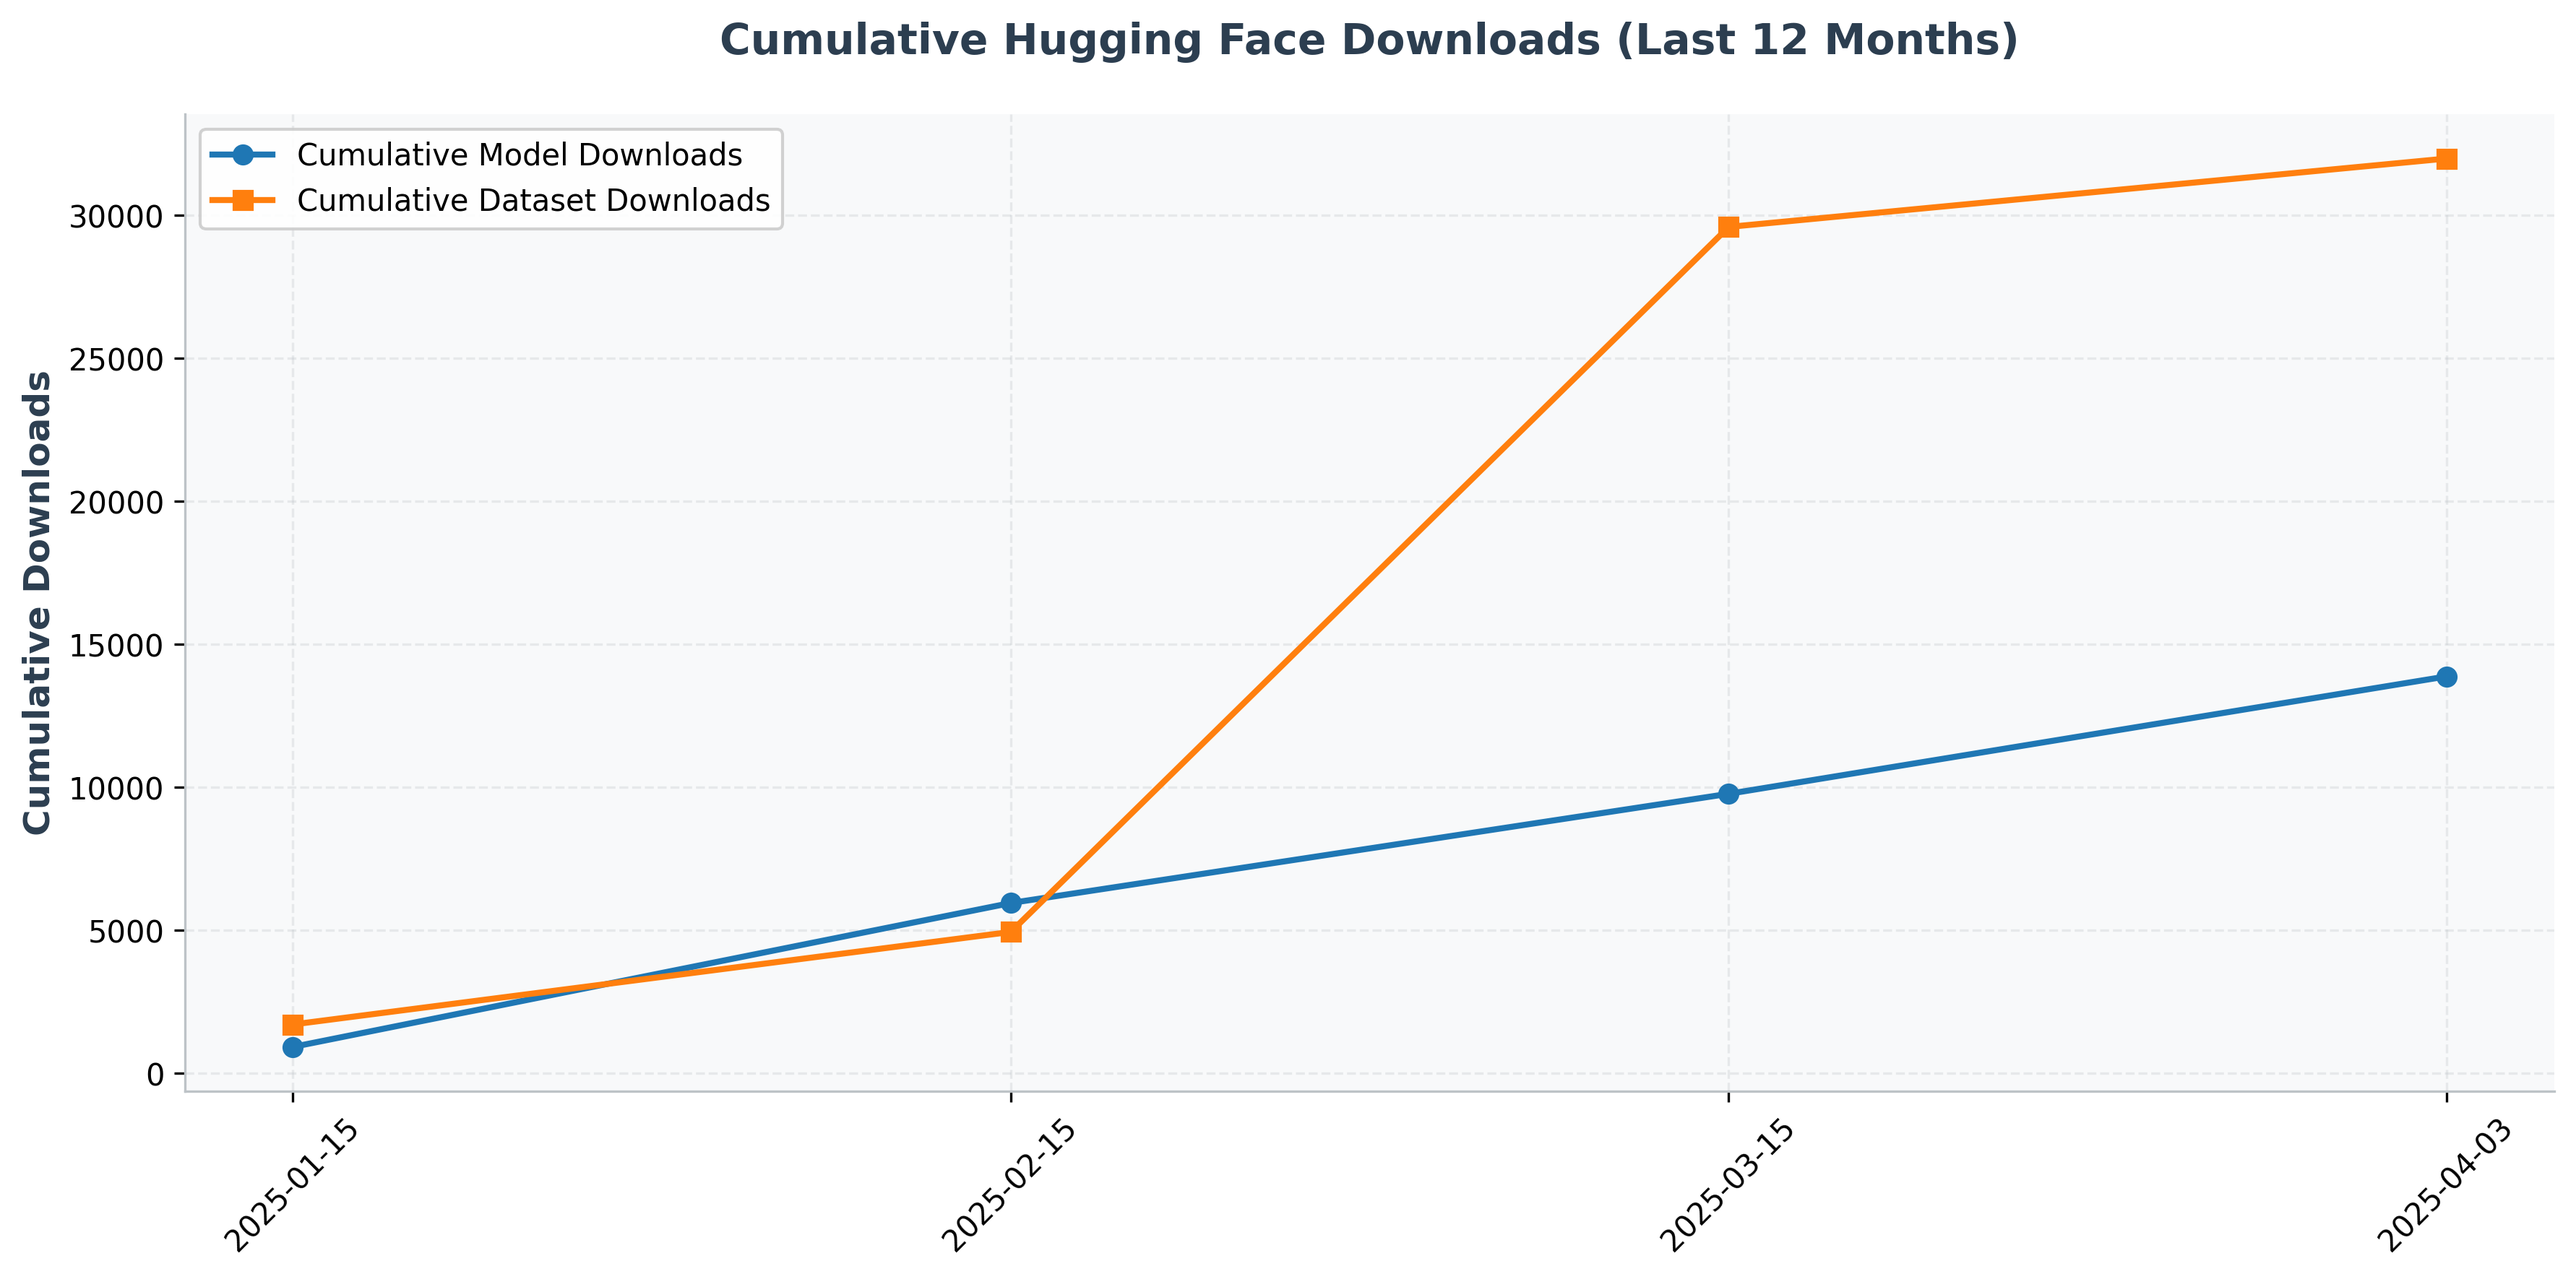
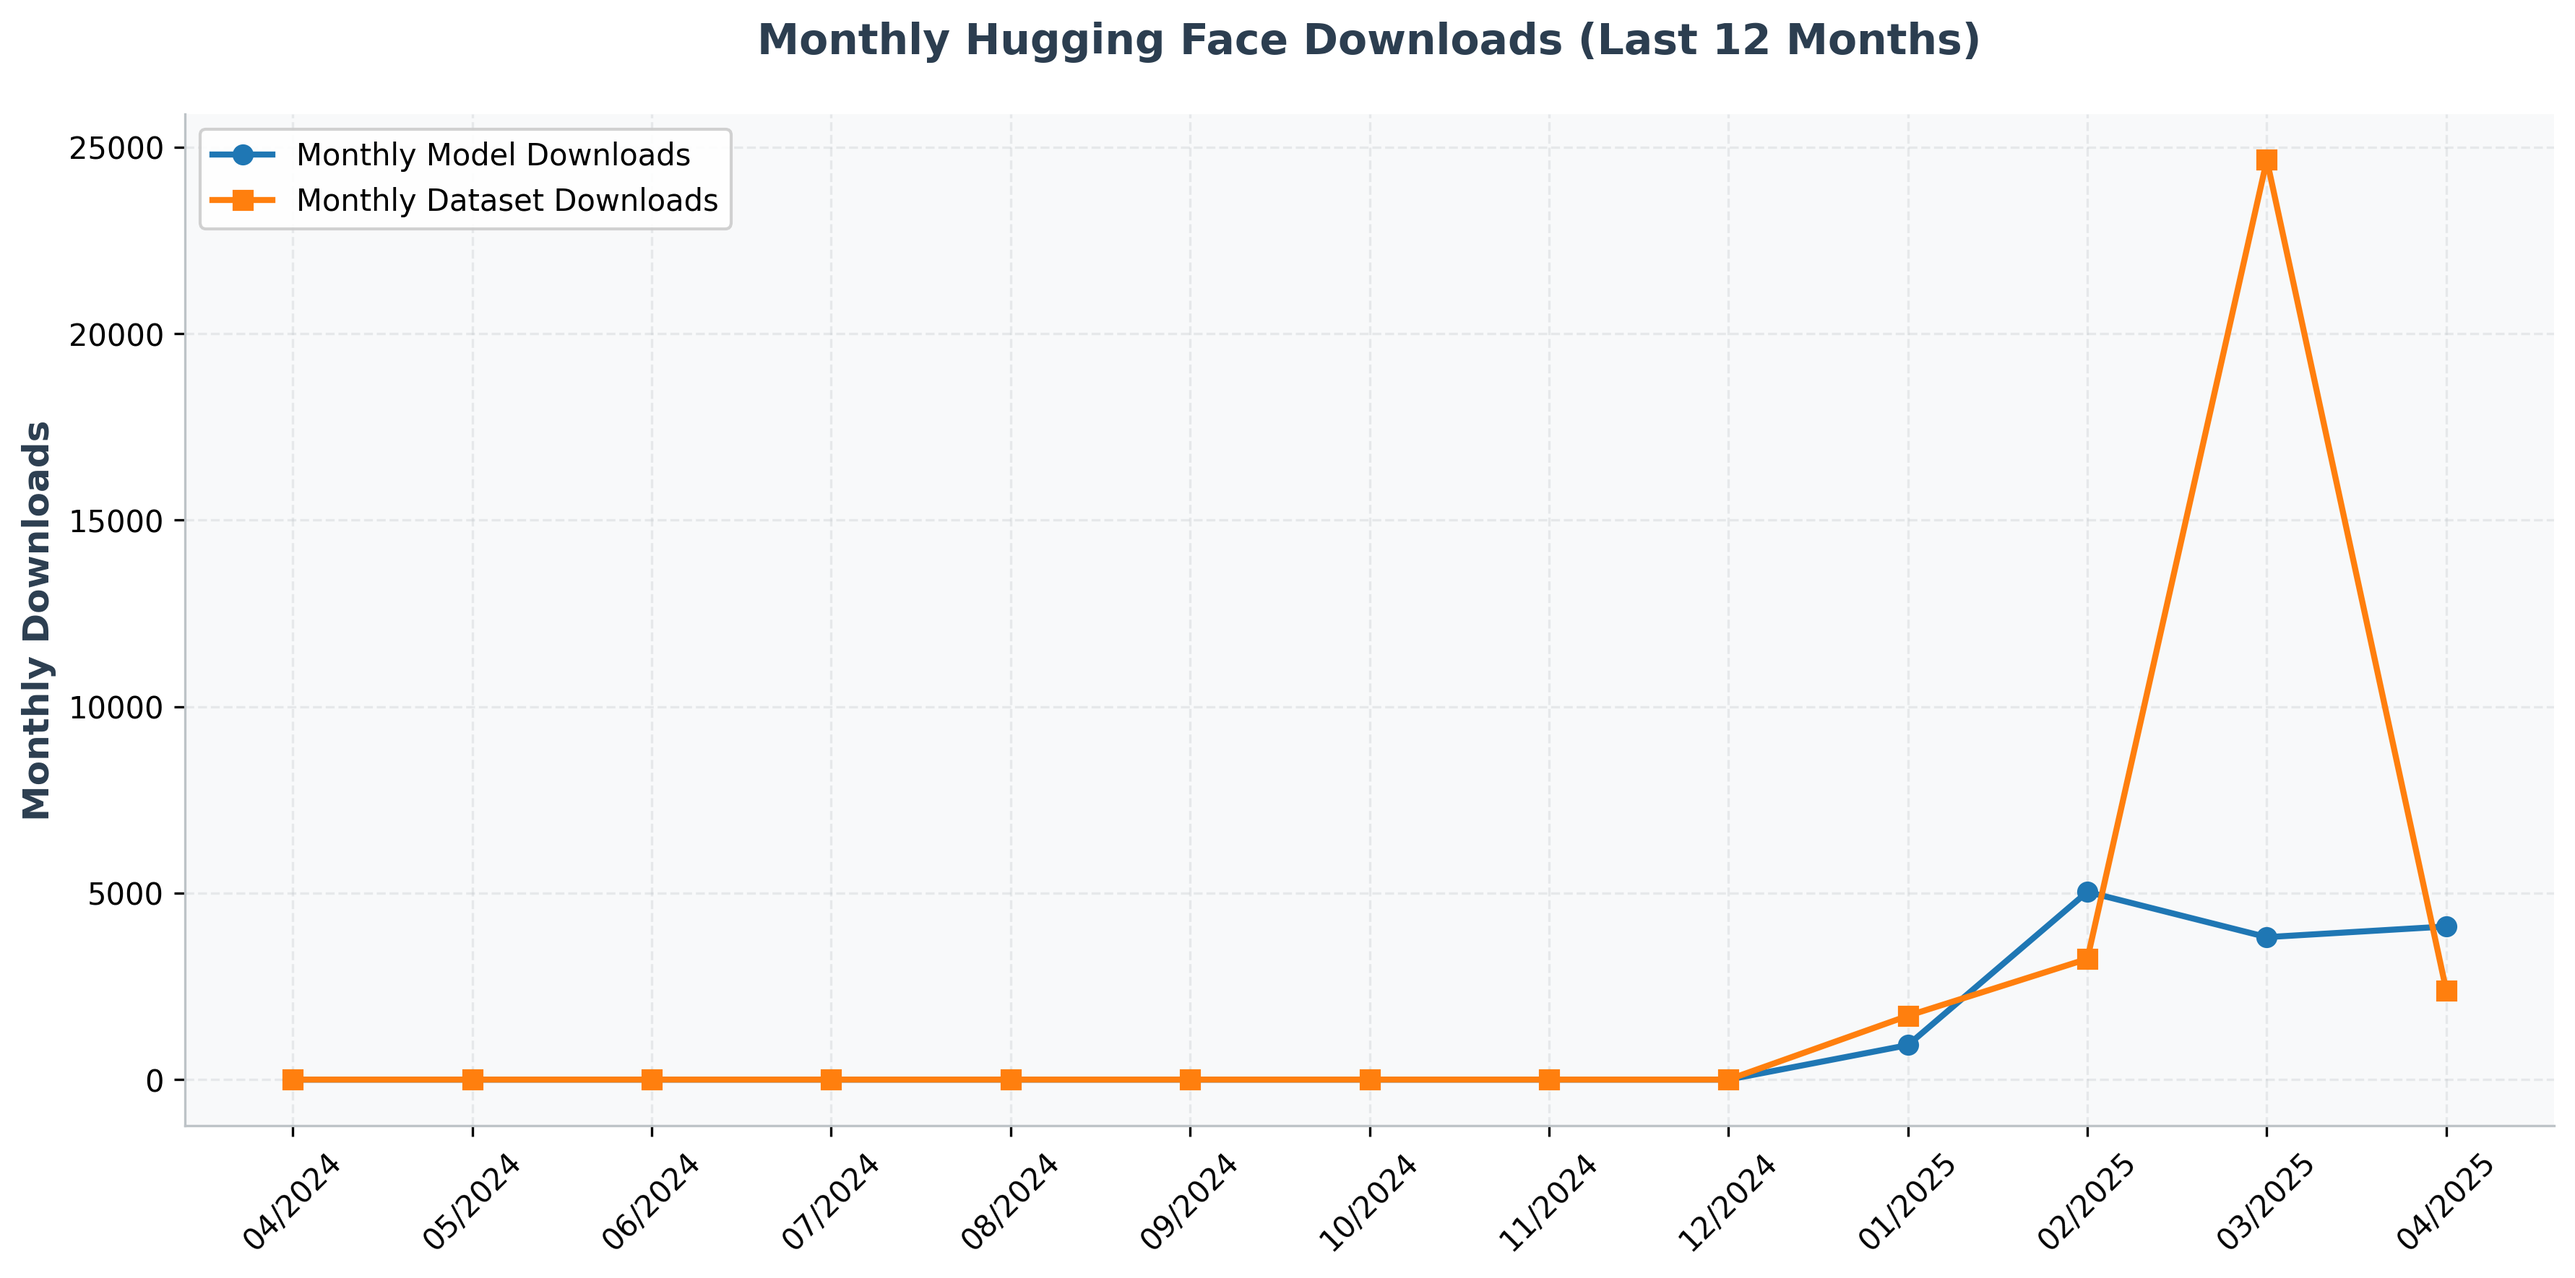
📊 Refactor download logging to aggregate monthly downloads for models and datasets

diff --git a/log_hf_downloads.py b/log_hf_downloads.py
@@ -72,39 +72,50 @@ def draw_plot():
     today = datetime.date.today()
     twelve_months_ago = today - datetime.timedelta(days=365)
     
-    # 筛选最近12个月的日期用于显示
-    recent_dates = [d for d in all_dates if d.date() >= twelve_months_ago]
-    recent_date_strs = [d.strftime("%Y-%m-%d") for d in recent_dates]
-    x = range(len(recent_date_strs))
-
-    # 创建完整的日期字典
-    model_dict = dict(zip([d.strftime("%Y-%m-%d") for d in dates_model], values_model))
-    data_dict = dict(zip([d.strftime("%Y-%m-%d") for d in dates_data], values_data))
-
-    # 计算所有日期的累计值
-    all_date_strs = [d.strftime("%Y-%m-%d") for d in all_dates]
-    model_values = [model_dict.get(d, 0) for d in all_date_strs]
-    data_values = [data_dict.get(d, 0) for d in all_date_strs]
+    # 创建月份字典来存储每月下载量
+    monthly_model_downloads = {}
+    monthly_dataset_downloads = {}
     
-    # 计算所有历史数据的累计值
-    cumulative_model_values = []
-    cumulative_data_values = []
-    model_sum = 0
-    data_sum = 0
+    # 处理模型下载数据
+    for date, value in zip(dates_model, values_model):
+        if date.date() >= twelve_months_ago:
+            month_key = date.strftime("%Y-%m")
+            if month_key in monthly_model_downloads:
+                monthly_model_downloads[month_key] += value
+            else:
+                monthly_model_downloads[month_key] = value
     
-    for m, d in zip(model_values, data_values):
-        model_sum += m
-        data_sum += d
-        cumulative_model_values.append(model_sum)
-        cumulative_data_values.append(data_sum)
+    # 处理数据集下载数据
+    for date, value in zip(dates_data, values_data):
+        if date.date() >= twelve_months_ago:
+            month_key = date.strftime("%Y-%m")
+            if month_key in monthly_dataset_downloads:
+                monthly_dataset_downloads[month_key] += value
+            else:
+                monthly_dataset_downloads[month_key] = value
     
-    # 创建完整日期到累计值的映射
-    model_cumulative_dict = dict(zip(all_date_strs, cumulative_model_values))
-    data_cumulative_dict = dict(zip(all_date_strs, cumulative_data_values))
+    # 确保所有月份都有数据
+    all_months = []
+    current_date = twelve_months_ago
+    while current_date <= today:
+        month_key = current_date.strftime("%Y-%m")
+        all_months.append(month_key)
+        # 移动到下个月
+        if current_date.month == 12:
+            current_date = datetime.date(current_date.year + 1, 1, 1)
+        else:
+            current_date = datetime.date(current_date.year, current_date.month + 1, 1)
     
-    # 获取最近12个月的累计值
-    recent_model_values = [model_cumulative_dict.get(d, 0) for d in recent_date_strs]
-    recent_data_values = [data_cumulative_dict.get(d, 0) for d in recent_date_strs]
+    # 排序月份
+    all_months.sort()
+    
+    # 获取每月的下载量
+    model_monthly_values = [monthly_model_downloads.get(month, 0) for month in all_months]
+    dataset_monthly_values = [monthly_dataset_downloads.get(month, 0) for month in all_months]
+    
+    # 美化月份标签显示
+    display_months = [f"{month[-2:]}/{month[:4]}" for month in all_months]
+    x = range(len(display_months))
 
     plt.figure(figsize=(12, 6))
     
@@ -116,15 +127,15 @@ def draw_plot():
     plt.gcf().set_facecolor('white')
     
     # 绘制折线图
-    plt.plot(x, recent_model_values, label="Cumulative Model Downloads", color="#1f77b4", linewidth=2, marker='o', markersize=6)
-    plt.plot(x, recent_data_values, label="Cumulative Dataset Downloads", color="#ff7f0e", linewidth=2, marker='s', markersize=6)
+    plt.plot(x, model_monthly_values, label="Monthly Model Downloads", color="#1f77b4", linewidth=2, marker='o', markersize=6)
+    plt.plot(x, dataset_monthly_values, label="Monthly Dataset Downloads", color="#ff7f0e", linewidth=2, marker='s', markersize=6)
 
     # 设置x轴标签
-    plt.xticks(ticks=x, labels=recent_date_strs, rotation=45)
+    plt.xticks(ticks=x, labels=display_months, rotation=45)
     
     # 设置y轴标签和标题
-    plt.ylabel("Cumulative Downloads", fontsize=12, fontweight='bold', color='#2c3e50')
-    plt.title("Cumulative Hugging Face Downloads (Last 12 Months)", fontsize=14, fontweight='bold', pad=20, color='#2c3e50')
+    plt.ylabel("Monthly Downloads", fontsize=12, fontweight='bold', color='#2c3e50')
+    plt.title("Monthly Hugging Face Downloads (Last 12 Months)", fontsize=14, fontweight='bold', pad=20, color='#2c3e50')
     
     # 添加图例
     plt.legend(fontsize=10, loc='upper left', framealpha=0.9)
